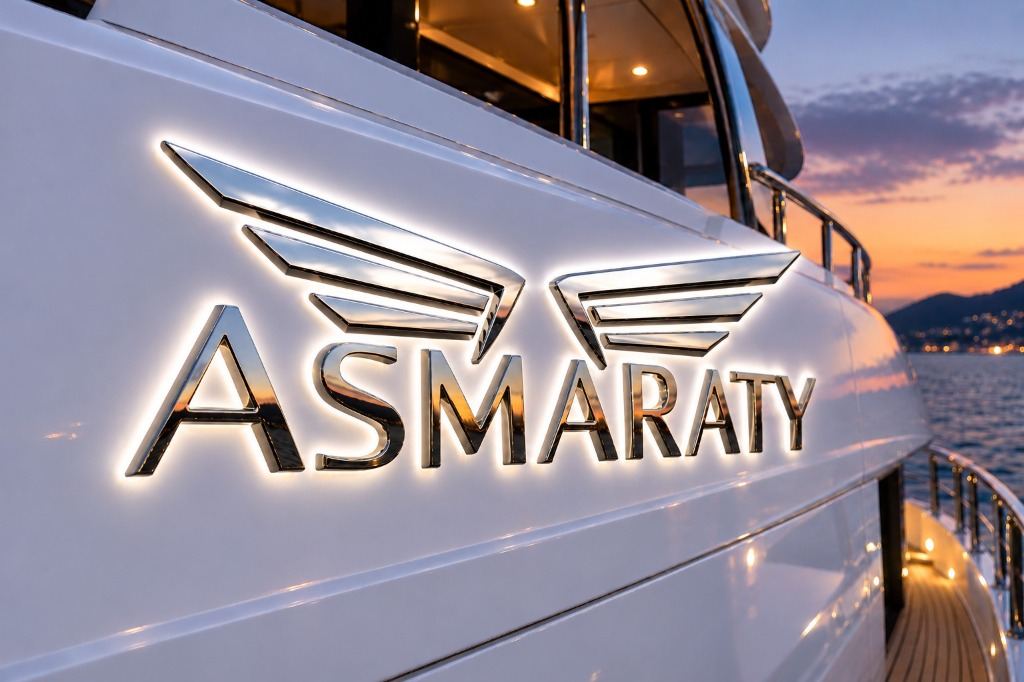
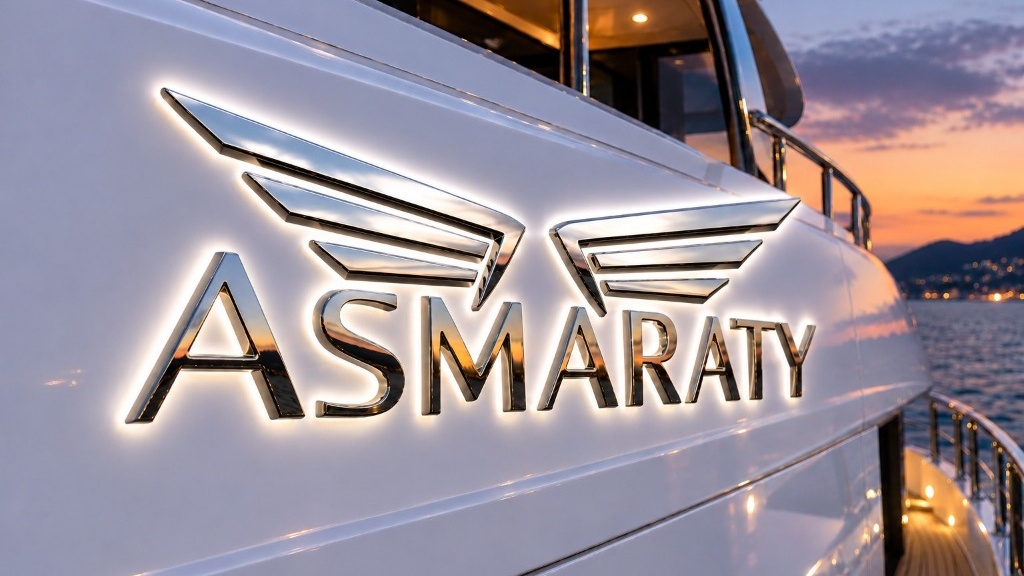
fix: make A SHARED PASSION FOR LIFE AT SEA image full bleed without black side bars

diff --git a/components/public/sections/ImageTextSection.js b/components/public/sections/ImageTextSection.js
@@ -162,7 +162,7 @@ export default function ImageTextSection({
                   <img
                     src={imageUrl}
                     alt={imageAlt || heading}
-                    className="w-full h-full object-contain object-center transition-transform duration-700 ease-out group-hover:scale-[1.01]"
+                    className="w-full h-full object-cover object-center transition-transform duration-700 ease-out group-hover:scale-[1.02]"
                   />
 
                   {/* Edit Photo Trigger in CMS Mode */}
